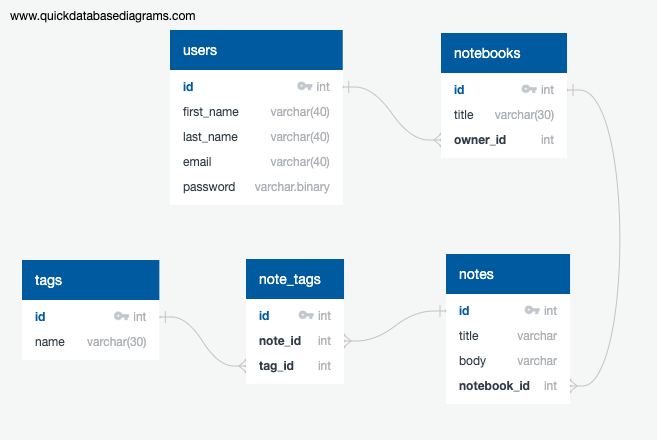
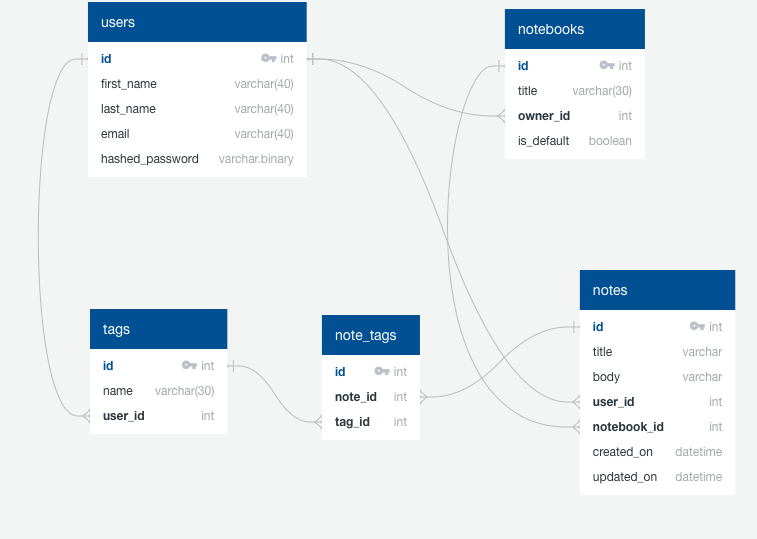
create notebooks slice of state and update db diagrams

diff --git a/react-app/src/store/ducks/notebooks.js b/react-app/src/store/ducks/notebooks.js
@@ -1,0 +1,43 @@
+import merge from "lodash/merge";
+import { baseUrl } from "../../config";
+
+const LOAD_NOTEBOOKS = "evernote-clone/notebooks/LOAD_NOTEBOOKS";
+
+export const load_notebooks = (notebooks) => {
+  return {
+    type: LOAD_NOTEBOOKS,
+    notebooks,
+  };
+};
+
+export default function reducer(state = {}, action) {
+  Object.freeze(state);
+  switch (action.type) {
+    case LOAD_NOTEBOOKS: {
+      const notebooks = action.notebooks.notebooks.map((notebook) => ({
+        [notebook.id]: {
+          title: notebook.title,
+          owner_id: notebook.owner_id,
+          is_default: notebook.is_default,
+          notes: [...notebook.notes],
+        },
+      }));
+      return merge({}, state, ...notebooks);
+    }
+    default:
+      return state;
+  }
+}
+
+export const getNotebooks = () => async (dispatch, getState) => {
+  try {
+    const response = await fetch(`${baseUrl}/notebooks`);
+
+    if (response.ok) {
+      const notebooks = await response.json();
+      dispatch(load_notebooks(notebooks));
+    }
+  } catch (e) {
+    console.log(e);
+  }
+};

diff --git a/react-app/src/config.js b/react-app/src/config.js
@@ -1,0 +1,2 @@
+export const baseUrl =
+  process.env.REACT_APP_BASEURL || `http://localhost:5000/api`;

diff --git a/migrations/versions/b0e6a61c5daa_create_migrations.py b/migrations/versions/b0e6a61c5daa_create_migrations.py
@@ -1,8 +1,8 @@
-"""empty message
+"""Create migrations
 
-Revision ID: 5622cd4076a7
+Revision ID: b0e6a61c5daa
 Revises: 
-Create Date: 2020-11-24 00:31:59.084484
+Create Date: 2020-11-24 16:37:45.890163
 
 """
 from alembic import op
@@ -10,7 +10,7 @@ import sqlalchemy as sa
 
 
 # revision identifiers, used by Alembic.
-revision = '5622cd4076a7'
+revision = 'b0e6a61c5daa'
 down_revision = None
 branch_labels = None
 depends_on = None
@@ -46,7 +46,7 @@ def upgrade():
     sa.Column('id', sa.Integer(), nullable=False),
     sa.Column('title', sa.String(length=30), nullable=True),
     sa.Column('body', sa.String(), nullable=True),
-    sa.Column('user_id', sa.Integer(), nullable=True),
+    sa.Column('user_id', sa.Integer(), nullable=False),
     sa.Column('notebook_id', sa.Integer(), nullable=False),
     sa.Column('created_on', sa.DateTime(), server_default=sa.text('now()'), nullable=True),
     sa.Column('updated_on', sa.DateTime(), server_default=sa.text('now()'), nullable=True),
@@ -56,8 +56,8 @@ def upgrade():
     )
     op.create_table('note_tags',
     sa.Column('id', sa.Integer(), nullable=False),
-    sa.Column('note_id', sa.Integer(), nullable=True),
-    sa.Column('tag_id', sa.Integer(), nullable=True),
+    sa.Column('note_id', sa.Integer(), nullable=False),
+    sa.Column('tag_id', sa.Integer(), nullable=False),
     sa.ForeignKeyConstraint(['note_id'], ['notes.id'], ),
     sa.ForeignKeyConstraint(['tag_id'], ['tags.id'], ),
     sa.PrimaryKeyConstraint('id')

diff --git a/documentation/schema.md b/documentation/schema.md
@@ -1,53 +1,48 @@
 # Clevernote Data Schema
 
-users
------
+## users
 
+| attribute name | data type    | details               |
+| -------------- | ------------ | --------------------- |
+| id             | integer      | primary key, not null |
+| first_name     | varchar(40)  | not null              |
+| last_name      | varchar(40)  | not null              |
+| email          | varchar(255) | not null, unique      |
+| hashedPassword | varchar      | not null, (binary)    |
 
-| attribute name | data type | details |
-| - | - | - |
-| id | integer | primary key, not null |
-| first_name | varchar(40) | not null |
-| last_name | varchar(40) | not null |
-| email | varchar(40) | not null, unique |
-| hashedPassword | varchar | not null, (binary) |
+## notebooks
 
-notebooks
---------------
+| attribute name | data type   | details               |
+| -------------- | ----------- | --------------------- |
+| id             | integer     | not null, primary key |
+| title          | varchar(30) |                       |
+| owner_id       | integer     | not null, foreign key |
+| is_default     | boolean     | defaults to False     |
 
+## notes
 
-| attribute name | data type | details |
-| - | - | - |
-| id | integer | not null, primary key |
-| title | varchar(30) | foreign key |
-| owner_id | integer | not null, foreign key |
+| attribute name | data type   | details               |
+| -------------- | ----------- | --------------------- |
+| id             | integer     | not null, primary key |
+| title          | varchar(30) |                       |
+| body           | varchar     |                       |
+| user_id        | integer     | foreign key           |
+| notebook_id    | integer     | not null, foreign key |
+| created_on     | datetime    |                       |
+| updated_on     | datetime    |                       |
 
-notes
---------------
+## note_tags
 
+| attribute name | data type | details               |
+| -------------- | --------- | --------------------- |
+| id             | integer   | not null, primary key |
+| note_id        | integer   | not null, foreign key |
+| tag_id         | integer   | not null, foreign key |
 
-| attribute name | data type | details |
-| - | - | - |
-| id | integer | not null, primary key |
-| title | varchar(30) | foreign key |
-| body | varchar | |
-| notebook_id | integer | not null, foreign key |
+## tags
 
-note_tags
---------------
-
-
-| attribute name | data type | details |
-| - | - | - |
-| id | integer | not null, primary key |
-| note_id | integer | not null, foreign key |
-| tag_id | integer | not null, foreign key |
-
-tags
---------------
-
-
-| attribute name | data type | details |
-| - | - | - |
-| id | integer | not null, primary key |
-| name | varchar(30) | not null |
+| attribute name | data type   | details               |
+| -------------- | ----------- | --------------------- |
+| id             | integer     | not null, primary key |
+| name           | varchar(30) | not null              |
+| user_id        | integer     | foreign key           |
